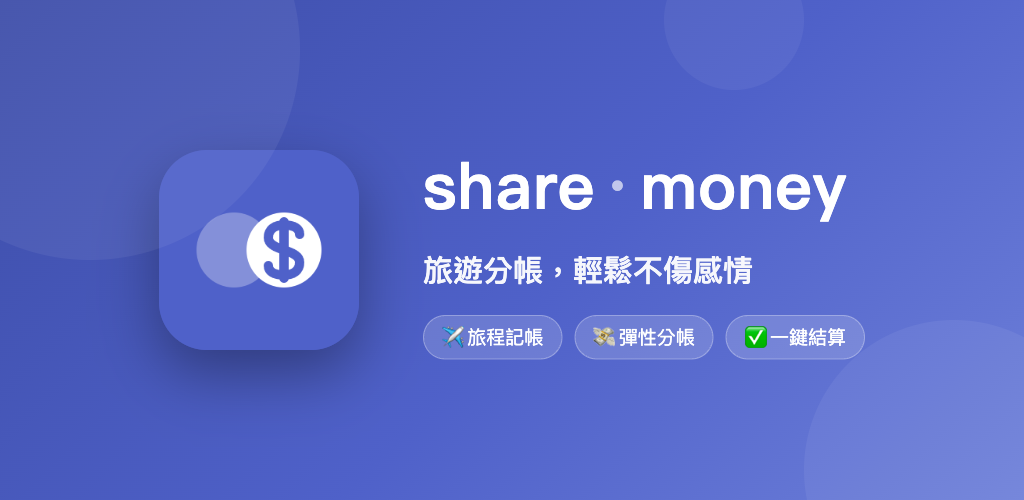
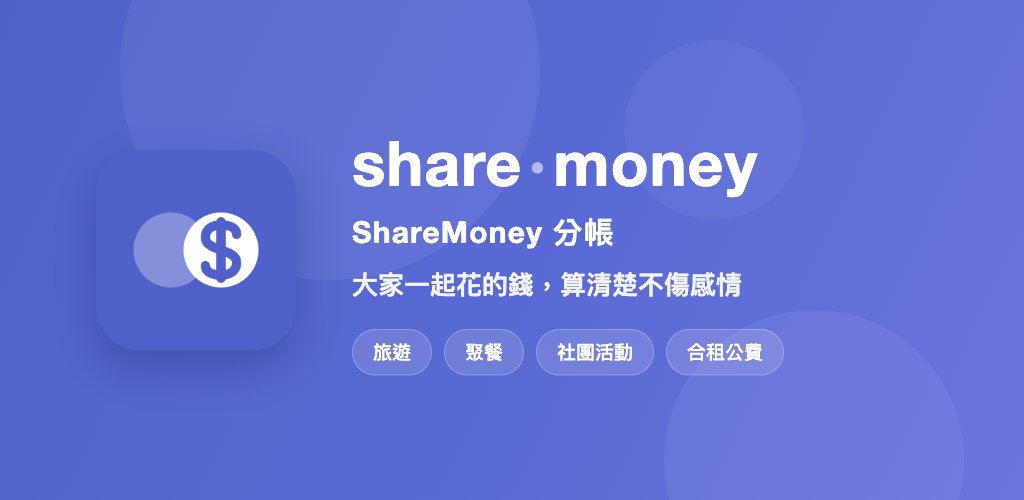
🎨 docs(store): redo feature graphic without travel-only framing
Keeps the HTML source next to the PNG so it can be regenerated.

Changed region(s): [[0.0, 0.0, 0.8438, 0.81], [0.0, 0.48, 0.0312, 0.54]]

diff --git a/docs/store-assets/feature-graphic.html b/docs/store-assets/feature-graphic.html
@@ -1,0 +1,53 @@
+<!doctype html>
+<!-- Source for feature-graphic.png (1024x500). Regenerate: open in Chrome at
+     1024x500, DPR 1, screenshot the viewport. -->
+<html lang="zh-TW">
+<head>
+<meta charset="utf-8">
+<style>
+  * { margin: 0; padding: 0; box-sizing: border-box; }
+  body {
+    width: 1024px; height: 500px; overflow: hidden; position: relative;
+    background: linear-gradient(115deg, #4f61c9 0%, #5a6ad4 55%, #6b74dd 100%);
+    font-family: 'Helvetica Neue', 'PingFang TC', sans-serif;
+    display: flex; align-items: center; gap: 56px; padding-left: 96px;
+  }
+  .blob { position: absolute; border-radius: 50%; background: rgba(255,255,255,.06); }
+  .b1 { width: 420px; height: 420px; top: -140px; left: 120px; }
+  .b2 { width: 300px; height: 300px; bottom: -110px; right: 60px; }
+  .b3 { width: 180px; height: 180px; top: 40px; right: 220px; background: rgba(255,255,255,.04); }
+  .icon {
+    width: 200px; height: 200px; border-radius: 44px; flex-shrink: 0;
+    position: relative; z-index: 1; box-shadow: 0 18px 44px rgba(20,26,70,.28);
+  }
+  .copy { position: relative; z-index: 1; }
+  h1 { font-size: 62px; font-weight: 600; color: #fff; letter-spacing: .02em; }
+  h1 .dot { opacity: .55; margin: 0 .1em; }
+  .name { font-size: 30px; font-weight: 600; color: #fff; margin-top: 10px; letter-spacing: .04em; }
+  .tag { font-size: 26px; font-weight: 600; color: rgba(255,255,255,.92); margin-top: 14px; }
+  .chips { display: flex; gap: 12px; margin-top: 26px; }
+  .chip {
+    background: rgba(255,255,255,.14); border: 1px solid rgba(255,255,255,.22);
+    color: #fff; font-size: 19px; font-weight: 500;
+    padding: 9px 20px; border-radius: 999px; white-space: nowrap;
+  }
+</style>
+</head>
+<body>
+  <div class="blob b1"></div>
+  <div class="blob b2"></div>
+  <div class="blob b3"></div>
+  <img class="icon" src="../../public/icon-512.png" alt="">
+  <div class="copy">
+    <h1>share<span class="dot">·</span>money</h1>
+    <div class="name">ShareMoney 分帳</div>
+    <div class="tag">大家一起花的錢，算清楚不傷感情</div>
+    <div class="chips">
+      <span class="chip">旅遊</span>
+      <span class="chip">聚餐</span>
+      <span class="chip">社團活動</span>
+      <span class="chip">合租公費</span>
+    </div>
+  </div>
+</body>
+</html>
